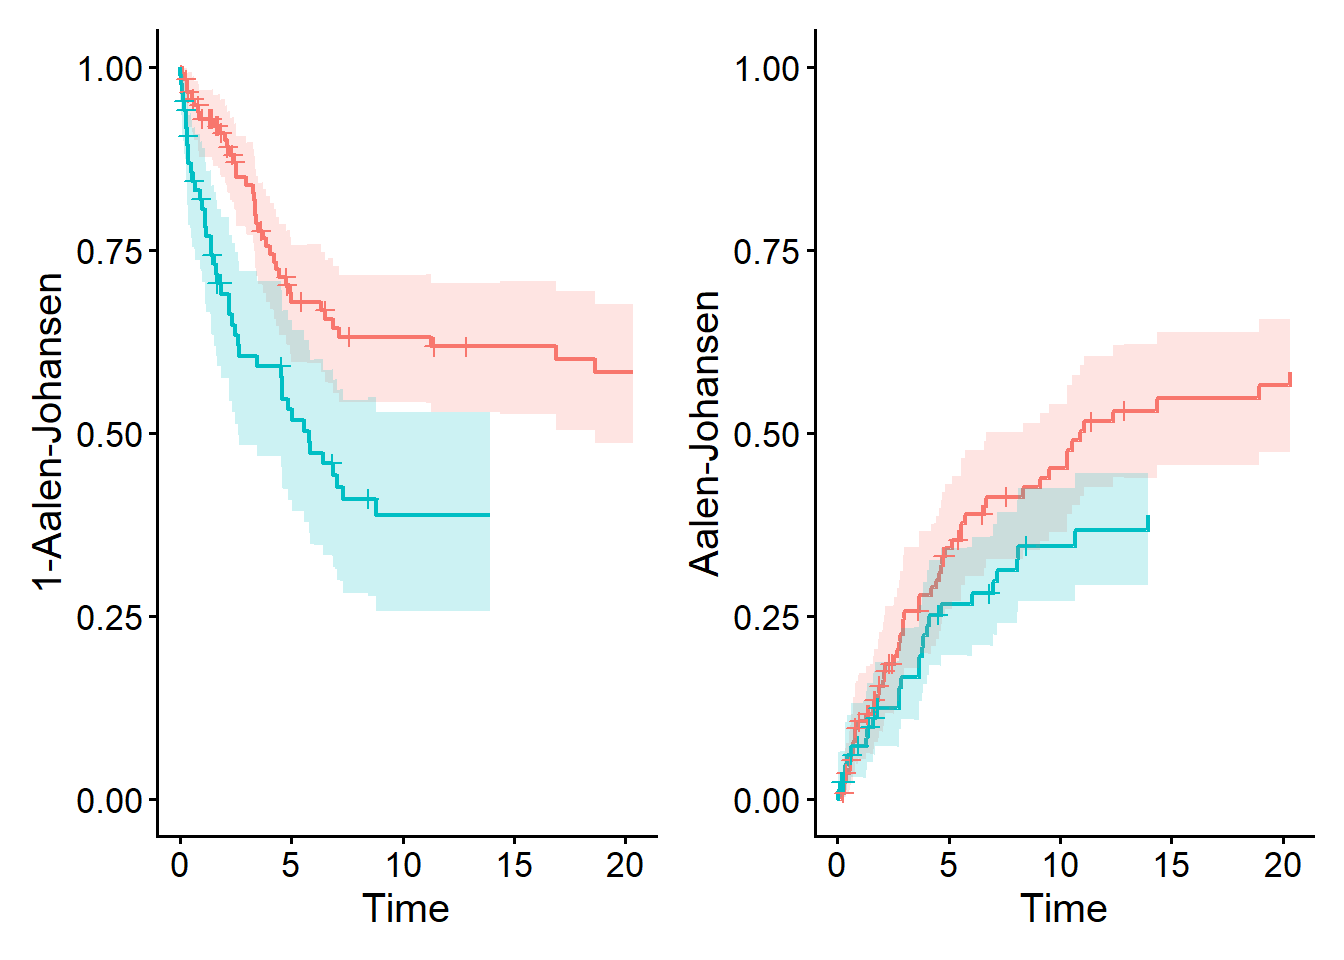
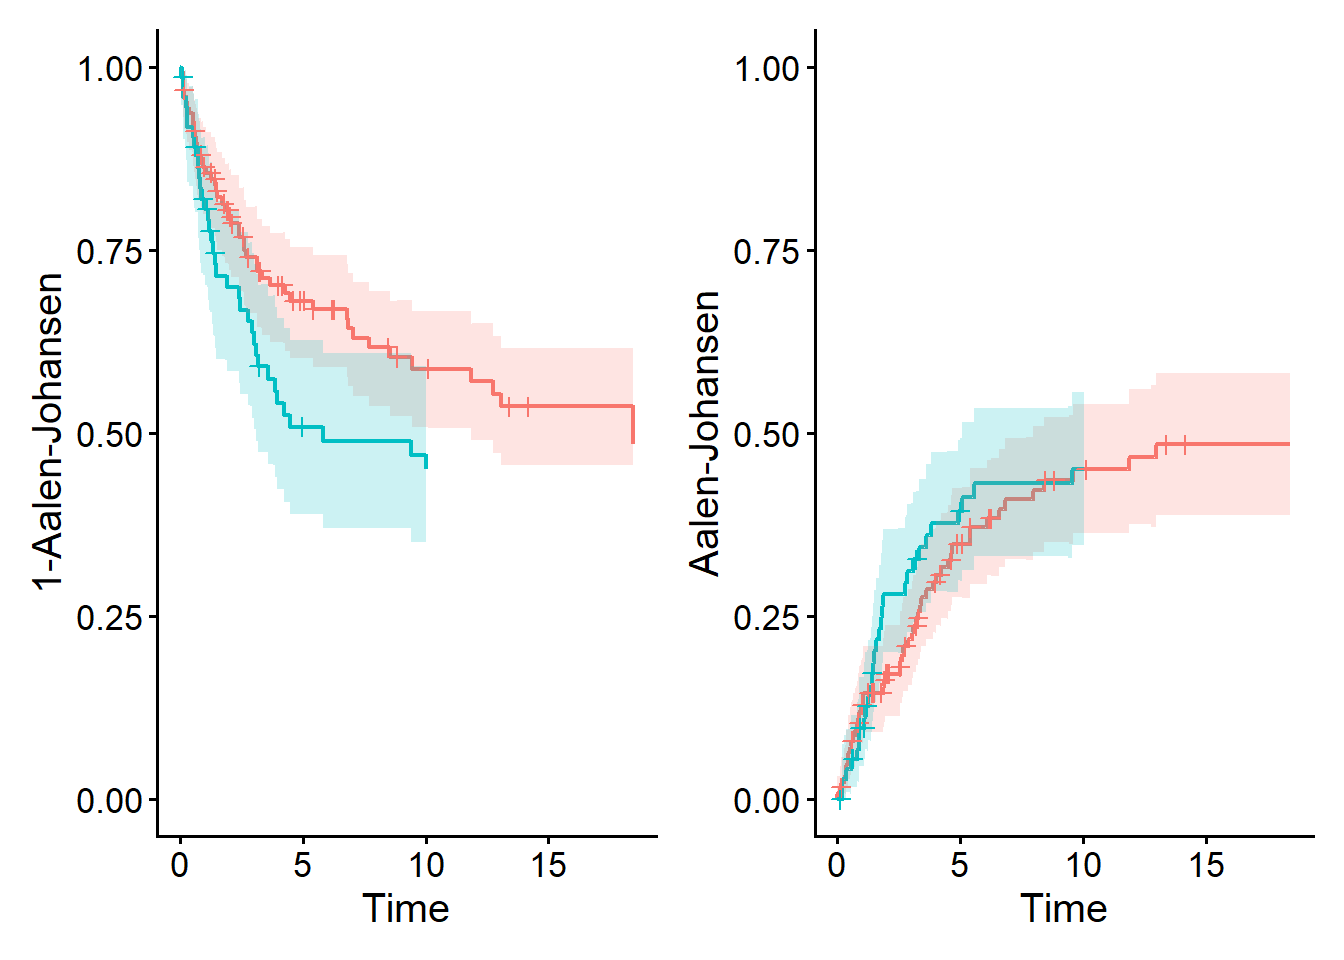
study design

diff --git a/docs/jp/frequentist-5.html b/docs/jp/frequentist-5.html
@@ -500,7 +500,7 @@ calculate_coverage()を実行するRコードと結果はこちら
 <span id="cb3-3"><a href="#cb3-3" aria-hidden="true" tabindex="-1"></a>coverage_200 <span class="ot">&lt;-</span> <span class="fu">calculate_coverage</span>(<span class="at">model=</span><span class="st">"coxph"</span>, <span class="at">n=</span><span class="dv">200</span>, <span class="at">hr1=</span><span class="dv">2</span>, <span class="at">hr2=</span><span class="fl">1.5</span>, <span class="at">hr_true=</span><span class="fl">1.5</span>)</span>
 <span id="cb3-4"><a href="#cb3-4" aria-hidden="true" tabindex="-1"></a><span class="fu">print</span>(coverage_200)</span></code><button title="Copy to Clipboard" class="code-copy-button"><i class="bi"></i></button></pre></div>
 <div class="cell-output cell-output-stdout">
-<pre><code>[1] 0.95</code></pre>
+<pre><code>[1] 0.949</code></pre>
 </div>
 </div>
 </div>
@@ -544,19 +544,19 @@ calculate_coverage()を実行するRコードと結果はこちら
 <span id="cb5-3"><a href="#cb5-3" aria-hidden="true" tabindex="-1"></a>coverage_800 <span class="ot">&lt;-</span> <span class="fu">calculate_coverage</span>(<span class="at">model=</span><span class="st">"coxph"</span>, <span class="at">n=</span><span class="dv">800</span>, <span class="at">hr1=</span><span class="dv">2</span>, <span class="at">hr2=</span><span class="fl">1.5</span>, <span class="at">hr_true=</span><span class="fl">1.5</span>)</span>
 <span id="cb5-4"><a href="#cb5-4" aria-hidden="true" tabindex="-1"></a><span class="fu">print</span>(coverage_100)</span></code><button title="Copy to Clipboard" class="code-copy-button"><i class="bi"></i></button></pre></div>
 <div class="cell-output cell-output-stdout">
-<pre><code>[1] 0.933</code></pre>
+<pre><code>[1] 0.951</code></pre>
 </div>
 <div class="sourceCode cell-code" id="cb7"><pre class="sourceCode r code-with-copy"><code class="sourceCode r"><span id="cb7-1"><a href="#cb7-1" aria-hidden="true" tabindex="-1"></a><span class="fu">print</span>(coverage_200)</span></code><button title="Copy to Clipboard" class="code-copy-button"><i class="bi"></i></button></pre></div>
 <div class="cell-output cell-output-stdout">
-<pre><code>[1] 0.95</code></pre>
+<pre><code>[1] 0.949</code></pre>
 </div>
 <div class="sourceCode cell-code" id="cb9"><pre class="sourceCode r code-with-copy"><code class="sourceCode r"><span id="cb9-1"><a href="#cb9-1" aria-hidden="true" tabindex="-1"></a><span class="fu">print</span>(coverage_400)</span></code><button title="Copy to Clipboard" class="code-copy-button"><i class="bi"></i></button></pre></div>
 <div class="cell-output cell-output-stdout">
-<pre><code>[1] 0.939</code></pre>
+<pre><code>[1] 0.94</code></pre>
 </div>
 <div class="sourceCode cell-code" id="cb11"><pre class="sourceCode r code-with-copy"><code class="sourceCode r"><span id="cb11-1"><a href="#cb11-1" aria-hidden="true" tabindex="-1"></a><span class="fu">print</span>(coverage_800)</span></code><button title="Copy to Clipboard" class="code-copy-button"><i class="bi"></i></button></pre></div>
 <div class="cell-output cell-output-stdout">
-<pre><code>[1] 0.95</code></pre>
+<pre><code>[1] 0.959</code></pre>
 </div>
 </div>
 </div>

diff --git a/docs/jp/index.html b/docs/jp/index.html
@@ -667,7 +667,7 @@ Dec 8, 2025
 </a>
 </div>
 </div>
-<div class="quarto-post image-right" data-index="4" data-listing-date-sort="1764514800000" data-listing-file-modified-sort="1767081097802" data-listing-date-modified-sort="NaN" data-listing-reading-time-sort="2" data-listing-word-count-sort="208">
+<div class="quarto-post image-right" data-index="4" data-listing-date-sort="1764514800000" data-listing-file-modified-sort="1767081437731" data-listing-date-modified-sort="NaN" data-listing-reading-time-sort="2" data-listing-word-count-sort="208">
 <div class="thumbnail"><a href="../jp/study-design-1.html" class="no-external">
 
 <p class="card-img-top"><img src="..\image\father-daughter.png"  class="thumbnail-image card-img"/></p>
@@ -689,7 +689,7 @@ Dec 1, 2025
 </a>
 </div>
 </div>
-<div class="quarto-post image-right" data-index="5" data-listing-date-sort="1764514800000" data-listing-file-modified-sort="1767081117803" data-listing-date-modified-sort="NaN" data-listing-reading-time-sort="2" data-listing-word-count-sort="391">
+<div class="quarto-post image-right" data-index="5" data-listing-date-sort="1764514800000" data-listing-file-modified-sort="1767081522645" data-listing-date-modified-sort="NaN" data-listing-reading-time-sort="2" data-listing-word-count-sort="391">
 <div class="thumbnail"><a href="../jp/study-design-2.html" class="no-external">
 
 <p class="card-img-top"><img src="..\image\father-daughter.png"  class="thumbnail-image card-img"/></p>

diff --git a/docs/jp/study-design-2.html b/docs/jp/study-design-2.html
@@ -376,7 +376,7 @@ gtag('config', 'G-FCK3LX51C6', { 'anonymize_ip': true});
 <p>私「知らんな。呪詛」</p>
 </div>
 <div class="voice-father">
-<p>お父さん「そうだね、人間が使う言葉とは思えないとはこっちも思うよ。でも、本題に入る前につまづいたらもったいない。もし、統計でわからない言葉が出てきたら、<a href="glossary.html"><strong>いつでも質問においで</strong></a>。まあ、とにかく、どのデータの型にどんな確率モデルを使うのか、パターンを知ることだね」</p>
+<p>お父さん「そうだね、人間が使う言葉とは思えないとはこっちも思うよ。でも、本題に入る前につまづいたらもったいない。もし、統計でわからない言葉が出てきたら、<a href="glossary.html"><strong>“参考資料”</strong></a>をみてよ。まあ、とにかく、どのデータの型にどんな確率モデルを使うのか、パターンを知ることだね」</p>
 </div>
 <div class="voice-daughter">
 <p>私「はあ。それとRが関係するわけ？」</p>

diff --git a/docs/jp/frequentist-2.html b/docs/jp/frequentist-2.html
@@ -546,20 +546,20 @@ coxph()のコードと結果はこちら
 <pre><code>Call:
 coxph(formula = Surv(time_os, status_os) ~ stoma, data = dat)
 
-  n= 200, number of events= 135 
+  n= 200, number of events= 144 
 
-                  coef exp(coef) se(coef)     z Pr(&gt;|z|)  
-stomaWITH STOMA 0.3034    1.3545   0.1742 1.742   0.0815 .
+                  coef exp(coef) se(coef)    z Pr(&gt;|z|)    
+stomaWITH STOMA 0.7212    2.0569   0.1725 4.18 2.91e-05 ***
 ---
 Signif. codes:  0 '***' 0.001 '**' 0.01 '*' 0.05 '.' 0.1 ' ' 1
 
                 exp(coef) exp(-coef) lower .95 upper .95
-stomaWITH STOMA     1.355     0.7383    0.9628     1.906
+stomaWITH STOMA     2.057     0.4862     1.467     2.884
 
-Concordance= 0.537  (se = 0.025 )
-Likelihood ratio test= 2.99  on 1 df,   p=0.08
-Wald test            = 3.04  on 1 df,   p=0.08
-Score (logrank) test = 3.06  on 1 df,   p=0.08</code></pre>
+Concordance= 0.591  (se = 0.023 )
+Likelihood ratio test= 16.98  on 1 df,   p=4e-05
+Wald test            = 17.48  on 1 df,   p=3e-05
+Score (logrank) test = 18.2  on 1 df,   p=2e-05</code></pre>
 </div>
 </div>
 </div>

diff --git a/docs/en/frequentist-2.html b/docs/en/frequentist-2.html
@@ -556,18 +556,20 @@ R code for coxph() and outout
 <pre><code>Call:
 coxph(formula = Surv(time_os, status_os) ~ stoma, data = dat)
 
-  n= 200, number of events= 135 
+  n= 200, number of events= 144 
 
-                  coef exp(coef) se(coef)     z Pr(&gt;|z|)
-stomaWITH STOMA 0.2329    1.2622   0.1771 1.315    0.189
+                  coef exp(coef) se(coef)    z Pr(&gt;|z|)  
+stomaWITH STOMA 0.4057    1.5003   0.1704 2.38   0.0173 *
+---
+Signif. codes:  0 '***' 0.001 '**' 0.01 '*' 0.05 '.' 0.1 ' ' 1
 
                 exp(coef) exp(-coef) lower .95 upper .95
-stomaWITH STOMA     1.262     0.7922     0.892     1.786
+stomaWITH STOMA       1.5     0.6665     1.074     2.095
 
-Concordance= 0.523  (se = 0.024 )
-Likelihood ratio test= 1.7  on 1 df,   p=0.2
-Wald test            = 1.73  on 1 df,   p=0.2
-Score (logrank) test = 1.74  on 1 df,   p=0.2</code></pre>
+Concordance= 0.569  (se = 0.024 )
+Likelihood ratio test= 5.55  on 1 df,   p=0.02
+Wald test            = 5.67  on 1 df,   p=0.02
+Score (logrank) test = 5.74  on 1 df,   p=0.02</code></pre>
 </div>
 </div>
 </div>

diff --git a/docs/jp/study-design-1.html b/docs/jp/study-design-1.html
@@ -519,7 +519,6 @@ O: 手術後1年以内の復職の有無</code></pre>
 </div>
 <div id="callout-7" class="callout-7-contents callout-collapse collapse">
 <div class="callout-body-container callout-body">
-<p><strong>このシリーズのエピソード</strong></p>
 <ul>
 <li><a href="study-design-1.html">A Story of Coffee Chat and Research Hypothesis</a></li>
 <li><a href="study-design-2.html">Data Have Types: A Coffee-Chat Guide to R Functions for Common Outcomes</a></li>
